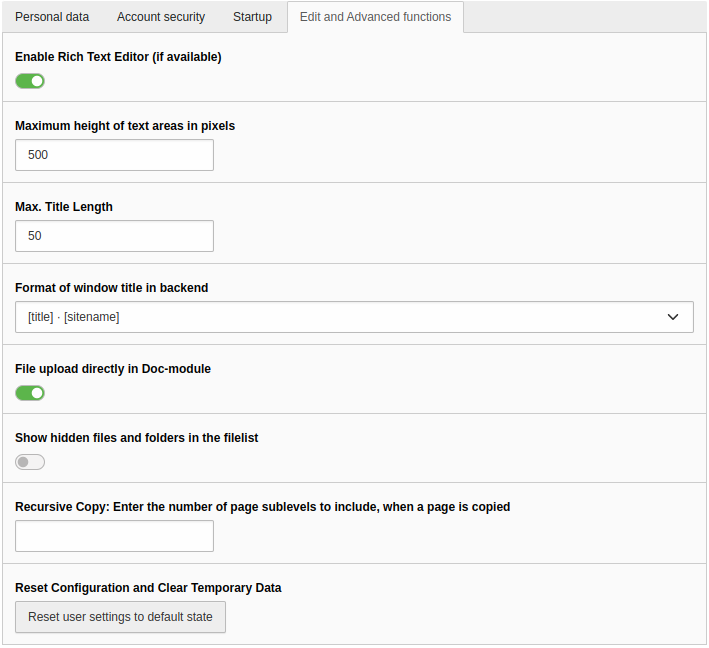
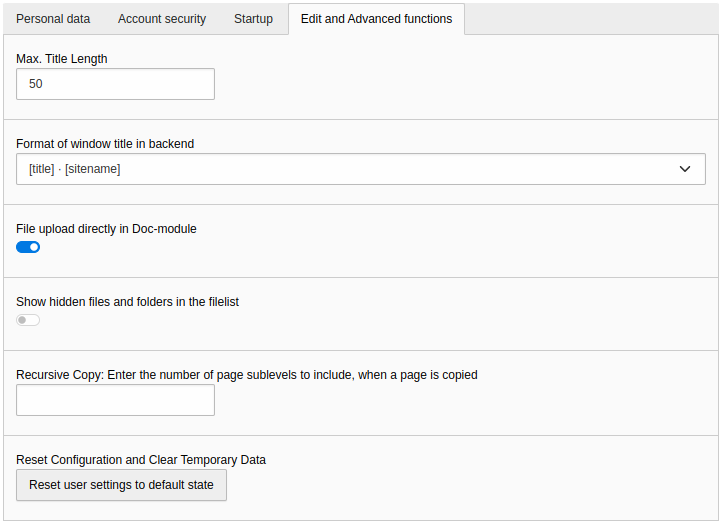
[TASK] #100634 - Remove option for enabling RTE per user (#357)
Resolves: https://github.com/TYPO3-Documentation/Changelog-To-Doc/issues/462
Releases: main

Changed region(s): [[0.0, 0.0, 1.0, 1.0], [0.3103, 0.0, 0.6516, 0.0611]]

diff --git a/Documentation/TSconfig/Documentation/UserTsconfig/Setup.rst b/Documentation/TSconfig/Documentation/UserTsconfig/Setup.rst
@@ -101,18 +101,6 @@ edit_docModuleUpload
     File upload directly in Doc. module
 
 
-.. index:: RTE; Enable
-
-edit_RTE
-========
-
-:aspect:`Datatype`
-    boolean
-
-:aspect:`Description`
-    Enable Rich Text Editor
-
-
 .. index:: Email me at login
 
 emailMeAtLogin
